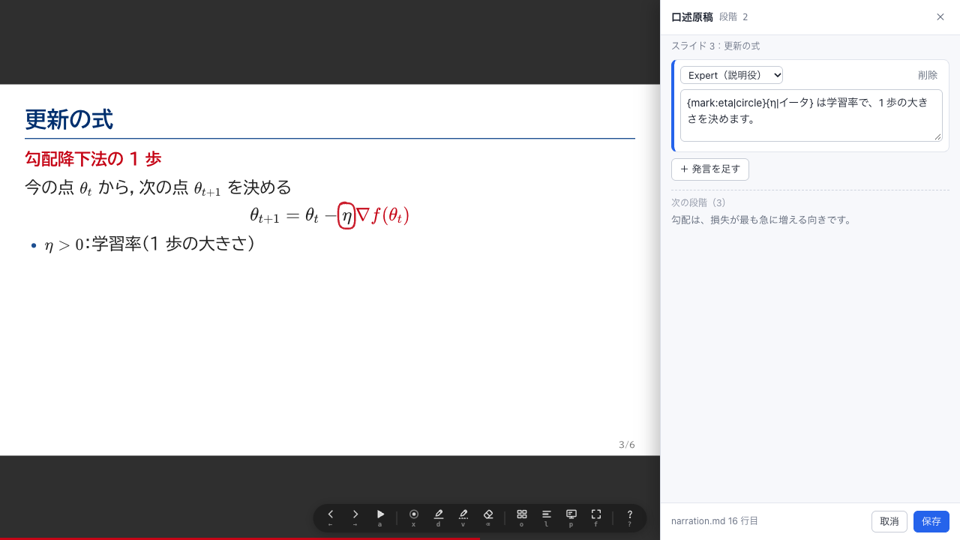
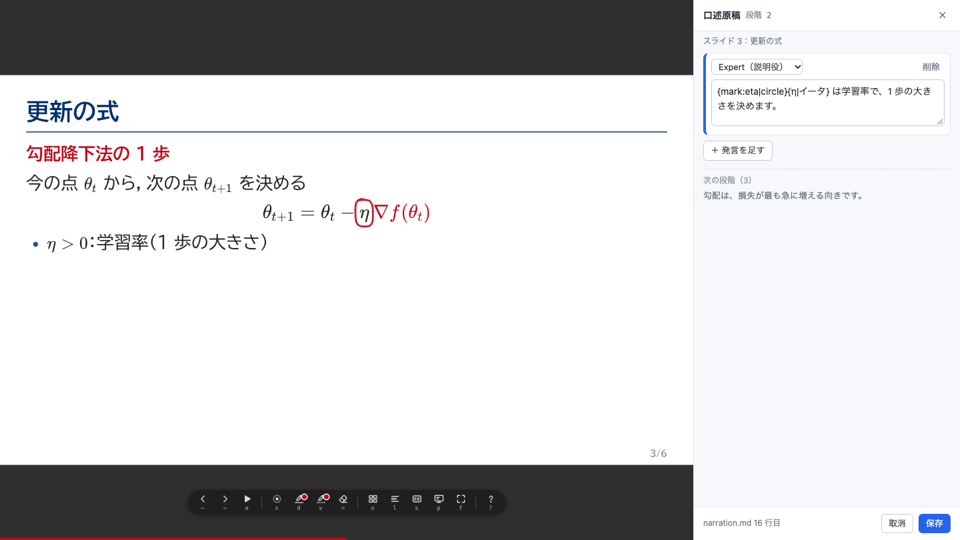
文書：プレビューは知らせを送るだけで、書き込みは信頼する画面（開発サーバーの外枠・編集アプリのページ）の保存でだけ行い、合言葉はデッキに入れないことを dev-server・editor・SECURITY・README に書き、「v0.3 までの弱点」の注を消す。参照の口の一覧、CHANGELOG の Security、口述原稿の引き出しと編集アプリの画面を撮り直す

diff --git a/docs/editor.ja.md b/docs/editor.ja.md
@@ -31,8 +31,10 @@
    | Alt+クリック（Mac は ⌥ option+クリック） | その要素について Claude への指示を残す（`comments.json`） |
    | `c` | 未対応の指示の一覧。クリックでそのスライドへ、「解決」で対応済み |
 
+   原稿の欄・口述原稿の引き出し（右。プレビューはその横に縮む）・コメントの欄と一覧は、デッキではなく編集アプリのページの一部。プレビューはダブルクリックや Alt+クリックの場所を知らせるだけで、原稿を読み・見せ・「保存」（か ⌘/Ctrl+Enter）を押したときに書くのは編集アプリ。キーはプレビューの上でも編集アプリの上でも効く
+
    開発サーバーと同じく、プレビューを組んだ後にファイルが変わっていれば（原稿の hash・口述原稿の版が合わなければ）保存しない。読み込み直してからもう一度
-3. **Claude Code と一緒に。** Claude Code（やほかのエディタ）がフォルダを変える間も開いたままでよい。約 1.5 秒ごとにファイルを見て、変わったら組み直し、同じスライド・段階のままプレビューを読み込み直す。原稿の編集や口述原稿の引き出しで入力中なら、保存か取消まで待つ。組み立てに失敗したら、直るまでプレビューの上にエラーを出す
+3. **Claude Code と一緒に。** Claude Code（やほかのエディタ）がフォルダを変える間も開いたままでよい。約 1.5 秒ごとにファイルを見て、変わったら組み直し、同じスライド・段階のままプレビューを読み込み直す。原稿の欄や口述原稿の引き出しで入力中のものは、プレビューを読み込み直しても残る（編集アプリのページにある）。その間に同じ要素や段階が変わっていれば、保存は断る。組み立てに失敗したら、直るまでプレビューの上にエラーを出す
 4. **発表する・渡す。** 道具の列から
    - **簡易チェック**：`npm run check` の一部をプレビューの中で行う（はみ出し・文字の大きさ・タイトルと結論の字数・口述原稿の抜け・パレットのコントラスト）。結果をクリックでそのスライドへ。目安であって全部の検査ではない：部品の再現性・タイムライン・モーフ・読み上げは見ない。画面の大きさが違うので、数値がコマンドの検査とわずかに違うことがある
    - **HTML を書き出す**：編集の仕掛けを除いて組み、1 つの HTML に保存する（保存先をたずねる）。ダブルクリックでどこでも発表できる
@@ -60,7 +62,7 @@
 - **理由を見せて断る：** 持ち運べる 1 ファイルでないもの・再生専用のもの、ハッシュが合わないもの・一部が欠けたもの、許されないパス（`../` など）、索引の同じ名前の項目、設定のファイルと食い違う文書の識別子、実装していない必須の機能、新しい原稿の書き方の版
 - **新しい major の版：** 編集のためには開かず、知っている版の規則で確かめたうえで原稿を取り出す「フォルダに書き出す…」を申し出る
 - **読むだけ：** 実行系の約束の版が違うもの、部品庫・テーマ庫の部品の hash が編集アプリのものと違う（または編集アプリにない）もの。デッキは表示し、保存は断り、「フォルダに書き出す…」はできる
-- **独自のコード：** 自前のスクリプトや部品を持つファイル（「extended」のもの）は、「このファイルは独自のコードを含んでいます。編集中にファイルを書き換えられるおそれがあります。信頼できるファイルだけを開いてください」と知らせて開く（下の「分かっている弱点」）
+- **独自のコード：** 自前のスクリプトや部品を持つファイル（「extended」のもの）は、その中のものが動く前に知らせてたずね、「プレビューを始める」を押してからプレビューを始める（取消ならファイルは開かない）。開いている間は上に知らせを出す：コードはプレビューの中だけで、外へ繋がらずに動き、ファイルを書き換えられない。部品（`components/…`、どれかの `.js`）や `deck.html` のスクリプトを持つフォルダも、開くたびに 1 回同じことをたずねる（あとからそういうコードが現れたときも）
 
 ## 書き換えるファイル
 
@@ -86,11 +88,11 @@
 ## 仕組みと安全
 
 - **組み立ては 1 つ。** `kit/core/build-core.mjs` が組み立ての本体（注記・取り込み・KaTeX・部品・口述原稿・注目の演出・秒数・テーマ・ファイルの埋め込み・字）で、Node に依存せず、渡された口を通してだけファイルを読む。`kit/build.mjs` は Node のファイル（と fonttools の絞り込み・ffmpeg）を、編集アプリは選んだフォルダと同梱の kit・部品・テーマ・KaTeX・字を渡す。字の絞り込みを切れば、両方が 1 バイトも違わない HTML を出す（`tools/test-app.mjs` が `examples/minimal` と `examples/tmlr2026-calibration` で確かめる）。口述原稿の解析と書き換え（`kit/core/narration-core.mjs`）と新しいデッキの雛形（`kit/templates/new-deck.mjs`）も同じく共有する
-- **編集の画面も 1 つ。** `server/client.js` は「運び手」を通して話す。開発サーバーでは `fetch` と Server-Sent Events、編集アプリでは親の画面への `postMessage`。編集アプリは同じ問い合わせ（`/__dev/source` `/__dev/edit` `/__dev/narration` `/__dev/comment` …）に、開いたフォルダで答える（`app/devapi.js`）
-- **デッキは砂場の中で動く。** プレビューは `allow-same-origin` を付けない `<iframe sandbox="allow-scripts allow-modals">` なので、デッキは origin を持たない。編集アプリの画面・保存領域・フォルダのハンドルに届かず、送れるのはメッセージだけで、編集アプリは送り元の窓と形を確かめ、開いたフォルダについてだけ答える。`allow-modals` は `confirm`（口述原稿の変更を捨てるか）と印刷のため。ページの Content-Security-Policy（デッキも受け継ぐ）はアプリ自身の読み込みだけを許す（部品が `new Function` で式を作る（`m-sweep f="…"` など）ので `'unsafe-eval'` は許す）。発表者ビューは編集アプリが開く窓で、その中のデッキもまた砂場の iframe。やり取りは編集アプリが中継する
+- **編集の画面も 1 つで、デッキの外にある。** `server/editor-ui.js`（原稿の欄・口述原稿の引き出し・コメントの欄と一覧）は、ここでは編集アプリのページで、開発サーバーでは外枠のページで動く。どちらも同じ問い合わせ（`/__dev/source` `/__dev/edit` `/__dev/narration` `/__dev/comment` …）を送り、開発サーバーは HTTP で、編集アプリはページの中で開いたフォルダについて答える（`app/devapi.js`）。デッキの中にあるのは知らせを送る `server/hints.js` だけ（下）
+- **デッキは砂場の中で動き、書き込めない。** プレビューは `allow-same-origin` を付けない `<iframe sandbox="allow-scripts allow-modals">` なので、デッキは origin を持たない。編集アプリの画面・保存領域・フォルダのハンドルに届かない。`allow-modals` は印刷のため。ページの Content-Security-Policy（アプリ自身の読み込みだけを許す）に重ねて、プレビューの文書には、どのスクリプトよりも前に別の決まりを入れる：`connect-src 'none'`、画像・字・スタイル・音声は `data:` / `blob:` だけ（組み立てが埋め込む）、Worker・フォーム・`<base>` は使えない（部品が `new Function` で式を作る（`m-sweep f="…"` など）ので `'unsafe-eval'` は残す）。発表者ビューは編集アプリが開く窓で、その中のデッキもまた同じ決まりの砂場の iframe。やり取りは編集アプリが中継する
+- **頼みではなく知らせ。** プレビューには書き込みを頼む口がない。送れるのは知らせだけ：「この `data-src` の範囲と hash の要素を直したい」（編集モードでダブルクリック）、「この要素にコメントしたい」（Alt+クリック。スライドと段階の鍵と、要素の短い引用）、鍵の `e`・`n`・`c`・Esc、今の位置（`deck-pos`）。知らせは書き込む本文を持たない。編集アプリは送り元の窓と知らせの形を確かめ、編集モードでないときの edit の知らせは無視し、今の原稿を自分で読み、範囲が今の組み立ての直せる要素で hash が合うことを確かめて、自分の欄を見せる。書くのは、その欄や引き出しで「保存」か ⌘/Ctrl+Enter を押したときだけ。権利の確認と読むだけのファイルは、これまでどおりこの書き込みにかかる。編集アプリからプレビューに送るのは、見せるのに要るものだけ（編集モードの入り切り・印を付ける要素・「その段階へ」・印刷・簡易チェック）
 - **触るのは選んだフォルダかファイルだけ**で、ブラウザの許可を得てから
 - **持ち運べる 1 ファイルを開いても、その中のものは何も動かない。** ファイルはバイト列として読み、スクリプトを無効にして Web Worker（編集アプリに同梱。ページの決まりは `blob:` の Worker だけを許す）の中で解析する。そのファイルへ移動したり、ページに入れたりはしない。動くのは原稿から組み直したデッキだけで、フォルダのときと同じ砂場のプレビューの中
-- **分かっている弱点（v0.3 まで）：デッキ自身のコードがデッキを書き換えられる。** 編集の画面は砂場の中のデッキの側で動き、編集アプリは「プレビューから来た」ことしか確かめていない。なので、デッキの中のスクリプトや部品も同じ依頼を送って、開いたフォルダやファイルの `deck.html`・`narration.md`・`comments.json` を書き換えられる（ほかのファイルには届かない。控えは `.cache/edits/` に残る）。それでも権利の確認は編集アプリの側で先に出し、読むだけのファイルはどの書き込みも断る。信頼できるデッキだけを開くこと（独自のコードを持つ持ち運べる 1 ファイルには知らせを出す）。v0.3 で編集の画面を編集アプリの側に移し、プレビューからは「どこを直すか」を指すことしかできないようにする
 
 ## GitHub Pages で配る
 
@@ -102,8 +104,8 @@
 
 ## 確かめ方
 
-`node tools/test-app.mjs [作業用のフォルダ] [--shots 画像のフォルダ]`（`npm test` に入っている）は、作業用のフォルダに編集アプリを組んで 127.0.0.1 で配り、ブラウザの OPFS（origin-private file system）にデッキのフォルダを作って `window.__APP_TEST_OPEN(handle)` で開く。同じ HTML になること・原稿の編集・口述原稿の引き出し・指示・外での変更・組み立ての失敗・簡易チェック・書き出し・発表者ビュー・英語の画面・`file://` の 1 ファイル版と、コンソールのエラーが無いことを確かめる。持ち運べる 1 ファイルは、`examples/minimal`（dry-run の音声つき）と `tools/portable-fixtures.mjs` の試験用の文書から作り、開く・権利の確認（改変を認めないライセンスの確認も）・文字と口述原稿の編集・OPFS のファイルのハンドルへの保存・開き直し（同じ `docId`、変えていない音声の hash が同じ、展開したフォルダがメモリの上のものと同じ）・「フォルダに書き出す…」と「1 ファイルを書き出す」（同じバイト）・独自のコードの知らせ・印のスクリプトが編集アプリのページでも読み取りの Worker でも動かないこと・断るファイル（パスの抜け出し・新しい major の版・索引の重複・知らない必須の機能）・読むだけのファイル・ダウンロードでの保存を確かめる。`node tools/test-workspace.mjs` は、メモリの上のフォルダと権利の規則をブラウザなしで確かめる。
+`node tools/test-app.mjs [作業用のフォルダ] [--shots 画像のフォルダ]`（`npm test` に入っている）は、作業用のフォルダに編集アプリを組んで 127.0.0.1 で配り、ブラウザの OPFS（origin-private file system）にデッキのフォルダを作って `window.__APP_TEST_OPEN(handle)` で開く。同じ HTML になること・原稿の編集（その間にファイルが変わったときの 409 も）・口述原稿の引き出し（発言を足す・CRLF のまま・409）・指示・外での変更・組み立ての失敗・簡易チェック・書き出し・発表者ビュー・英語の画面・`file://` の 1 ファイル版と、コンソールのエラーが無いことを確かめる。書き込みを試みるデッキのフォルダ（`tools/hostile-deck.mjs`：古い書き込みの知らせと偽の本文の知らせを送り、合言葉を探し、編集アプリのページに触り、書き込みの口に `fetch`・XHR・beacon する部品とインラインのスクリプト）は、動く前にたずね、フォルダの中を何も変えず、編集アプリで「保存」を押したときだけ書かれることを確かめる。持ち運べる 1 ファイルは、`examples/minimal`（dry-run の音声つき）と `tools/portable-fixtures.mjs` の試験用の文書から作り、開く・権利の確認（改変を認めないライセンスの確認も）・文字と口述原稿の編集・OPFS のファイルのハンドルへの保存・開き直し（同じ `docId`、変えていない音声の hash が同じ、展開したフォルダがメモリの上のものと同じ）・「フォルダに書き出す…」と「1 ファイルを書き出す」（同じバイト）・独自のコードの知らせ・印のスクリプトが編集アプリのページでも読み取りの Worker でも動かないこと・断るファイル（パスの抜け出し・新しい major の版・索引の重複・知らない必須の機能）・読むだけのファイル・ダウンロードでの保存を確かめる。`node tools/test-workspace.mjs` は、メモリの上のフォルダと権利の規則をブラウザなしで確かめる。
 
 ## 画面の言葉
 
-ふだんはブラウザの言語（日本語か英語）に合わせる。右上の **English / 日本語** のボタンで切り替えるか、`…/editor/?lang=en`・`?lang=ja` で開く。選んだ言葉は覚えておき、デッキを開いたまま切り替えても同じフォルダを開き直す（開いた持ち運べる 1 ファイルは閉じる。保存していない変更があれば先にたずねる）。スライドの中の編集の道具（編集モード・口述原稿の引き出し）は、デッキの言語（`<html lang>`）に合わせる。
+ふだんはブラウザの言語（日本語か英語）に合わせる。右上の **English / 日本語** のボタンで切り替えるか、`…/editor/?lang=en`・`?lang=ja` で開く。選んだ言葉は覚えておき、デッキを開いたまま切り替えても同じフォルダを開き直す（開いた持ち運べる 1 ファイルは閉じる。保存していない変更があれば先にたずねる）。編集の道具（編集モード・原稿の欄・口述原稿の引き出し・コメント）は編集アプリの言葉に合わせる（開発サーバーではデッキの言語 `<html lang>` に合わせる）。

diff --git a/docs/editor.md b/docs/editor.md
@@ -31,8 +31,10 @@ A web page that opens a deck folder directly and does what the [dev server](dev-
    | Alt+click (Mac: ⌥ Option+click) | leave a comment for Claude about that element (`comments.json`) |
    | `c` | list of open comments; click one to go to its slide, “Resolve” to mark it done |
 
+   The source card, the narration drawer (on the right; the preview shrinks beside it), the comment box and the comment list are part of the editor page, not of the deck: the preview only points at what you double-clicked or Alt+clicked, and the editor reads the source, shows it and writes it when you press Save (or ⌘/Ctrl+Enter). The keys work with the focus on the preview or on the editor.
+
    As with the dev server, a save is refused if the file changed since the preview was built (the source hash or the narration revision does not match); reload and try again.
-3. **Work with Claude Code.** Keep the editor open while Claude Code (or any editor) changes the folder. The editor looks at the files about every 1.5 s; when one changes it rebuilds and reloads the preview on the same slide and step. If you are typing in an editor card or the narration drawer, the reload waits until you save or cancel. If the build fails, the error is shown over the preview until the file is fixed.
+3. **Work with Claude Code.** Keep the editor open while Claude Code (or any editor) changes the folder. The editor looks at the files about every 1.5 s; when one changes it rebuilds and reloads the preview on the same slide and step. What you are typing in an editor card or the narration drawer stays while the preview reloads (it is in the editor page); if the same element or step changed meanwhile, the save is refused. If the build fails, the error is shown over the preview until the file is fixed.
 4. **Present and share.** Use the toolbar:
    - **Quick check:** a subset of `npm run check` that runs in the preview (overflow, font size, title / conclusion length, missing narration, palette contrast). Click a result to go to the slide. It is a hint, not the full check: there are no component determinism, timeline, morph or accessibility checks, and the numbers can differ slightly from the command-line check because the window differs.
    - **Export HTML:** builds the deck without the editing hooks and saves it as one HTML file (asks where to save). Double-click the file to present it anywhere.
@@ -60,7 +62,7 @@ Before the first edit of an opened file (the first save from edit mode or the na
 - **Refused, with the reason:** a file that is not a portable file or is play-only, a broken hash or a missing part, a path that is not allowed (e.g. `../`), a duplicate member in the index, a document id that disagrees with the settings file, a feature it does not implement (listed as required), and a newer source contract.
 - **Newer major version:** not opened for editing; the dialog offers **Export folder…** to extract the source (checked with the rules of the version the editor knows).
 - **Read-only:** a different runtime contract, or registry components or themes whose hash differs from the editor's (or that the editor does not have). The deck is shown, Save is refused, and Export folder… works.
-- **Its own code:** a file with scripts or components of its own (the “extended” profile) opens with the notice “This file contains its own code; it can modify the file while you edit. Open only files you trust.” (see the known limitation below).
+- **Its own code:** before anything from a file with scripts or components of its own (the “extended” profile) runs, the editor says so and asks; the preview starts only after **Start the preview** (Cancel leaves the file closed). While it is open, a notice stays at the top: the code runs only inside the preview, without network access, and cannot change the file. The same question comes for a folder with components (`components/…`, any `.js` file) or scripts in `deck.html`, once per opened folder (also when such code appears later).
 
 ## Files it writes
 
@@ -86,11 +88,11 @@ Exactly the same as the dev server ([dev-server.md#files-it-rewrites](dev-server
 ## How it works and security
 
 - **One build for both.** `kit/core/build-core.mjs` is the build (annotation, includes, KaTeX, components, narration, marks, timing, themes, assets, fonts) with no Node dependency; it reads files only through an interface it is given. `kit/build.mjs` passes Node's file system (plus fonttools subsetting and ffmpeg); the editor passes the chosen folder and the bundled kit, components, themes, KaTeX and fonts. With font subsetting off, both produce byte-identical HTML (`tools/test-app.mjs` checks this for `examples/minimal` and `examples/tmlr2026-calibration`). The narration parser and the narration rewriting (`kit/core/narration-core.mjs`) and the new-deck template (`kit/templates/new-deck.mjs`) are shared the same way.
-- **One editing UI for both.** `server/client.js` talks to a transport: `fetch` and Server-Sent Events with the dev server, `postMessage` to the editor in the app. The editor answers the same requests (`/__dev/source`, `/__dev/edit`, `/__dev/narration`, `/__dev/comment`, …) against the folder (`app/devapi.js`).
-- **The deck runs in a sandbox.** The preview is an `<iframe sandbox="allow-scripts allow-modals">` without `allow-same-origin`, so the deck has an opaque origin: it cannot reach the editor page, its storage or the folder handles, and it can only send messages, which the editor checks (source window, request shape) and answers only for the open folder. `allow-modals` is there for `confirm` (discarding narration changes) and printing. The page's Content-Security-Policy (inherited by the deck) allows loading only the editor itself (`'unsafe-eval'` is allowed because components build formulas with `new Function`, e.g. `m-sweep f="…"`). The presenter view is a window the editor opens, with the deck again in a sandboxed iframe; the editor relays its messages.
+- **One editing UI for both, outside the deck.** `server/editor-ui.js` (the source card, the narration drawer, the comment box and list) runs in the editor page here and in the dev server's frame page. It sends the same requests (`/__dev/source`, `/__dev/edit`, `/__dev/narration`, `/__dev/comment`, …): the dev server answers them over HTTP, the editor answers them in the page against the folder (`app/devapi.js`). Inside the deck there is only `server/hints.js`, which sends hints (see below).
+- **The deck runs in a sandbox and cannot write.** The preview is an `<iframe sandbox="allow-scripts allow-modals">` without `allow-same-origin`, so the deck has an opaque origin: it cannot reach the editor page, its storage or the folder handles. `allow-modals` is there for printing. On top of the page's Content-Security-Policy (which allows loading only the editor itself), the preview document gets its own policy before any of its scripts: `connect-src 'none'`, images, fonts, styles and media only from `data:` / `blob:` (the build embeds them), no workers, forms or `<base>` (`'unsafe-eval'` stays because components build formulas with `new Function`, e.g. `m-sweep f="…"`). The presenter view is a window the editor opens, with the deck again in a sandboxed iframe under the same policy; the editor relays its messages.
+- **Hints, not requests.** The preview has no way to ask for a write. It sends only hints: “edit the element with this `data-src` range and hash” (double-click in edit mode), “a note at this element” (Alt+click; the slide and step key and a short quote of the element), the keys `e` / `n` / `c` / Esc, and its position (`deck-pos`). A hint carries no text to write. The editor checks the source window and the shape of each hint, ignores an edit hint outside edit mode, reads the current source itself, checks that the range is an editable element of the current build and that the hash matches, and shows its own card; it writes only when you press Save or ⌘/Ctrl+Enter in that card or drawer. The rights prompt and read-only mode apply to these writes as before. The editor sends the preview only what it needs to show: edit mode on/off, the element to highlight, “go to this step”, print and quick check.
 - **The editor touches only the folder or file you chose**, and only after the browser's permission prompt.
 - **Opening a portable file runs nothing from it.** The file is read as bytes and parsed in a Web Worker (bundled into the editor; the page's policy allows workers only from `blob:`) with scripting disabled; the editor never navigates to it or inserts it into a page. Only the deck rebuilt from its source runs, in the same sandboxed preview as a folder.
-- **Known limitation (until v0.3): the deck's own code can edit the deck.** The editing UI runs inside the sandboxed deck, and the editor checks only that a request comes from the preview. So a script or component in the deck can send edit requests and rewrite `deck.html`, `narration.md` and `comments.json` of the open folder or file (nothing else; backups stay in `.cache/edits/`). The rights prompt still comes first, from the editor itself, and a read-only file refuses every write. Open only decks you trust; portable files with their own code show a notice. In v0.3 the editing UI moves into the editor itself and the preview can only point at what to edit.
 
 ## Publishing on GitHub Pages
 
@@ -102,8 +104,8 @@ Exactly the same as the dev server ([dev-server.md#files-it-rewrites](dev-server
 
 ## Tests
 
-`node tools/test-app.mjs [work folder] [--shots folder]` (part of `npm test`) builds the editor into the work folder, serves it on 127.0.0.1, creates deck folders in the browser's origin-private file system (OPFS) and opens them through `window.__APP_TEST_OPEN(handle)`. It checks the byte-identical builds, editing, the narration drawer, comments, outside changes, build errors, quick check, export, presenter view, the English UI and the single file from `file://`, and that there are no console errors. For portable files it builds one from `examples/minimal` (with dry-run audio) and the document fixtures of `tools/portable-fixtures.mjs`, and checks opening, the rights prompt (and the confirmation for a no-derivatives license), editing text and narration, saving to a file handle in OPFS, reopening (same `docId`, unchanged audio hashes, the unpacked folder equals the in-memory one), Export folder and Export portable file (byte-identical), the notice for files with their own code, that the canary script never runs in the editor page or the reader worker, the refusals (path traversal, future major version, duplicate member, unknown required feature), read-only files, and the download fallback. `node tools/test-workspace.mjs` tests the in-memory folder and the rights rules without a browser.
+`node tools/test-app.mjs [work folder] [--shots folder]` (part of `npm test`) builds the editor into the work folder, serves it on 127.0.0.1, creates deck folders in the browser's origin-private file system (OPFS) and opens them through `window.__APP_TEST_OPEN(handle)`. It checks the byte-identical builds, editing (including a 409 when the file changed meanwhile), the narration drawer (adding a turn, CRLF kept, 409), comments, outside changes, build errors, quick check, export, presenter view, the English UI and the single file from `file://`, and that there are no console errors. A folder with a deck that tries to write (`tools/hostile-deck.mjs`: a component and an inline script that send the old write messages and hints with forged text, look for a token, reach for the editor page and `fetch` / XHR / beacon the write endpoints) must ask before it runs, change nothing in the folder, and be written only when Save is pressed in the editor. For portable files it builds one from `examples/minimal` (with dry-run audio) and the document fixtures of `tools/portable-fixtures.mjs`, and checks opening, the rights prompt (and the confirmation for a no-derivatives license), editing text and narration, saving to a file handle in OPFS, reopening (same `docId`, unchanged audio hashes, the unpacked folder equals the in-memory one), Export folder and Export portable file (byte-identical), the notice for files with their own code, that the canary script never runs in the editor page or the reader worker, the refusals (path traversal, future major version, duplicate member, unknown required feature), read-only files, and the download fallback. `node tools/test-workspace.mjs` tests the in-memory folder and the rights rules without a browser.
 
 ## Language
 
-The editor follows your browser language (Japanese or English). Switch with the **English / 日本語** button at the top right, or open `…/editor/?lang=en` or `?lang=ja`. The choice is remembered; switching while a deck is open reopens the same folder (an opened portable file is closed; unsaved changes are asked about first). The editing tools inside the slide (edit mode, narration drawer) follow the deck's own language (`<html lang>`).
+The editor follows your browser language (Japanese or English). Switch with the **English / 日本語** button at the top right, or open `…/editor/?lang=en` or `?lang=ja`. The choice is remembered; switching while a deck is open reopens the same folder (an opened portable file is closed; unsaved changes are asked about first). The editing tools (edit mode, the source card, the narration drawer, comments) follow the editor's language. (In the dev server they follow the deck's language, `<html lang>`.)

diff --git a/docs/dev-server.ja.md b/docs/dev-server.ja.md
@@ -19,16 +19,20 @@ npm run dev -- path/to/deck.html --port 5174 --theme tml
 組み立てに失敗したときは、失敗の内容を画面に出す。直して保存すれば戻る。
 `?presenter=1`、`?mode=lecture` などはそのまま使える。音声は `/deck/audio/…` から読む。
 
+`/` のページはデッキを囲む外枠で、デッキそのものは sandbox の iframe（`/deck/`）の中で動く。編集の道具（原稿の欄・口述原稿の引き出し・コメントの欄と一覧）はデッキではなく外枠のページにある。デッキは「どこを直したいか」を知らせるだけで、原稿を読み・見せ・保存を押したときに書くのは外枠のページ（[守り](#守り)）。
+
 ## 操作
 
 | 鍵 | すること |
 |---|---|
-| `e` | 編集モードの入り切り。直せる要素に枠が出る。**ダブルクリック**で原稿（HTML と `\( \)` の式）を開き、⌘/Ctrl+Enter で保存、Esc で取消 |
-| `n` | 口述原稿の引き出し（右）。今の段階の発言を直す（話者 Expert / Novice、発言の追加・削除・順番）。`{cue}` `{φ\|ファイ}` はそのまま書く。下に次の段階を表示 |
+| `e` | 編集モードの入り切り。直せる要素に枠が出る。**ダブルクリック**で原稿（HTML と `\( \)` の式）を要素の横の欄に開き、⌘/Ctrl+Enter か「保存」で保存、Esc で取消 |
+| `n` | 口述原稿の引き出し（右。スライドはその横に縮む）。今の段階の発言を直す（話者 Expert / Novice、発言の追加・削除・順番）。`{cue}` `{φ\|ファイ}` はそのまま書く。下に次の段階を表示 |
 | `c` | Claude への指示の一覧（未対応のもの）。クリックでそのスライドへ、「解決」で対応済み |
 | Alt+クリック（Mac は ⌥ option キーを押したままクリック） | その要素について Claude への指示を残す |
 
-矢印・Space・p・a・l などの発表の操作は、入力欄の外ではいつもどおり効く。
+鍵はスライドの上でも外枠の上でも効く。開いた欄や引き出しにフォーカスが移り、閉じるとスライドに戻る。
+矢印・Space・p・a・l などの発表の操作は、入力欄の外ではいつもどおり効く。`p` の発表者ビューは別の窓に開く（そこでもデッキは sandbox の中）。
+デッキが読み込み直されても（保存のあと・外での変更のあと）入力は残るので、そのまま書き続けられる。その間に同じ要素や段階が変わっていれば、保存は断る。
 保存した時点で原稿が別の所で変わっていたら（ハッシュが合わない）、保存せずに「原稿が変わっています。再読み込みしてください」と出す。
 口述原稿も同じで、引き出しを開いたあとにその段階の行が別の所で変わっていたら、保存せずに「口述原稿が変わっています」と出す（入力は残る）。
 
@@ -42,17 +46,27 @@ npm run dev -- path/to/deck.html --port 5174 --theme tml
 
 ## 守り
 
-ほかのサイトを開いたブラウザから原稿を書き換えられないように、次を断る。
+**デッキは書き込めない。** デッキの中のスクリプトや部品は動くが、sandbox の iframe の中だけで動く。
+
+- デッキの文書（`/deck/`）は `<iframe sandbox="allow-scripts allow-modals">`（`allow-same-origin` なし）の中で開くので、origin を持たない。外枠のページ・その保存領域・合言葉を読めず、出せる要求はどれも `Origin: null` になる。
+- デッキの文書には別の Content-Security-Policy を付ける：`connect-src 'none'`（`fetch`・XHR・beacon・イベントの流れを使えない）、画像・字・スタイルは `data:` / `blob:` だけ（組み立てが埋め込む）、音声は `/deck/audio/` だけ、iframe は `/deck/` だけ（発表者ビューの中の画面）、フォームと `<base>` は使えない。
+- デッキが外枠に送るのは**知らせ**だけ：「この `data-src` の範囲と hash の要素を直したい」「この要素にコメントしたい」、鍵の `e`・`n`・`c`・Esc、今の位置。知らせは書き込む本文を持たない。外枠は知らせの形を確かめ、今の原稿を自分で読み、範囲と hash を確かめて、自分の欄や引き出しを見せる。書くのは、その欄や引き出しで「保存」（か ⌘/Ctrl+Enter）を押したときだけ。偽の本文を付けた知らせは無視する。知らせにできるのは、本当の原稿を見せる欄を開くことまで。
+- 合言葉は外枠のページにだけあり、デッキの文書には入れない。
+
+ほかのサイトを開いたブラウザから原稿を書き換えられないように、次も断る。
 
 - Host が `127.0.0.1:番号` か `localhost:番号` でない要求（DNS rebinding 対策）は 403
-- `/__dev/` の口（書き込み・原稿の読み出し・コメント・`/__dev/events`）は、起動のたびに作る合言葉が要る。
-  配る画面に `window.__DECK_DEV_TOKEN` として埋め込み、client.js が `X-Deck-Token` で送る（`/__dev/events` は `?token=`）。
+- `/__dev/` の口（書き込み・原稿の読み出し・コメント・`/__dev/info`・`/__dev/events`）は、起動のたびに作る合言葉が要る。
+  合言葉は外枠のページ（`/`）にだけ埋め込み、外枠が `X-Deck-Token` で送る（`/__dev/events` は `?token=`）。
   合言葉が違えば 403（サーバーを起動し直したら画面を読み込み直す）
+- `Origin: null`（sandbox のデッキが出す要求）や、`Sec-Fetch-Site` が `same-origin` でない要求は、合言葉が合っていても 403
 - 書き込み（POST）は `Content-Type: application/json` でなければ 415、Origin が付いていて同じ番号の 127.0.0.1・localhost でなければ 403
+- 文言の編集は、今の組み立てが直せると印を付けた要素（`data-src`）で、原稿の hash が変わっていないものだけ。口述原稿の編集は、デッキにあるスライドで、その段階の今の版だけ。そうでなければ 409（か 400）
+- 外枠のページはほかのページの iframe に入れられない（`frame-ancestors 'none'`）
 - `/deck/…` はドットで始まる名前（`.cache/edits/` の写し、`.env` など）を出さない。symlink で原稿のフォルダの外を指すものも 403
 - 壊れた URL（`/%ZZ` など）は 400
 
-これはほかのサイトへの守りで、デッキ自身への守りではない。合言葉は配る画面のどのスクリプトからも見えるので、デッキの中のスクリプトや部品も、編集の画面と同じ依頼を送って `deck.html`・`narration.md`・`comments.json` を書き換えられる。信頼できるデッキだけを開くこと。v0.3 で編集の画面をデッキの画面の外に移す。
+`tools/test-dev-server.mjs` は、書き込みを試みるデッキ（`tools/hostile-deck.mjs`：古い書き込みの知らせを偽の本文で送り、合言葉を読み、外枠のページに触り、書き込みの口に合言葉なし・当て推量の合言葉で `fetch`・XHR・beacon する部品とインラインのスクリプト）で、外枠で「保存」を押すまでフォルダの中が何も変わらないことを確かめる。
 
 ## Claude Code への頼み方
 

diff --git a/CHANGELOG.md b/CHANGELOG.md
@@ -6,6 +6,14 @@ The format is based on [Keep a Changelog](https://keepachangelog.com/en/1.1.0/),
 
 ## [Unreleased]
 
+### Security
+
+- **The preview can no longer write.** In the dev server and in the editor app, the editing UI (source card, narration drawer, comment box and list; `server/editor-ui.js`) moved out of the deck into a trusted page: the dev server's new frame page at `/` (the deck is now an iframe at `/deck/`) and the editor app's own page. The deck runs in a sandboxed iframe with an opaque origin and only sends hints (`server/hints.js`: the element or step to open, a note position, the keys `e` / `n` / `c` / Esc, its position), which carry no text to write. The trusted UI reads the source itself, checks the range against the current build and the hash, and writes only when Save (or ⌘/Ctrl+Enter) is pressed in it. The editor app no longer answers write requests from the preview at all (`app-api` is gone), and `server/client.js` is replaced by `server/hints.js` and `server/editor-ui.js`
+- Dev server: the per-run token is embedded only in the frame page, never in the deck document; `/__dev/` refuses `Origin: null` and cross-site `Sec-Fetch-Site` even with the token; text edits must name an element marked editable by the current build, narration edits a slide of the deck; the frame page cannot be framed (`frame-ancestors 'none'`)
+- No network from the preview: the deck document gets a Content-Security-Policy with `connect-src 'none'`, every other resource from `data:` / `blob:` only (the dev server also allows its own `/deck/audio/` and `/deck/`), no workers, forms or `<base>` — in the dev server as a response header, in the editor app as the first element of the preview document
+- Editor app: before running a deck's own code — a portable file with the “extended” profile, or a folder with components (`.js` files) or scripts in `deck.html` — the editor says so and starts the preview only after “Start the preview” (Cancel opens nothing)
+- `tools/hostile-deck.mjs`: a deck whose component and inline script try to write (old write messages and hints with forged text, reading the token, reaching the parent document, `fetch` / XHR / beacon to the write endpoints with and without a guessed token); `tools/test-dev-server.mjs` and `tools/test-app.mjs` check that nothing in the folder changes and that only Save in the trusted UI writes
+
 ### Added
 
 - Stable slide ids ([format spec](https://github.com/egatari/egatari-spec) §8.1): `<section class="slide" id="s-k3f9q2">` keys the slide, and `narration.md` addresses it as `## Heading {#s-k3f9q2}` (also `## s-k3f9q2`; plain `## Heading` stays for slides without id). The id wins over the heading text, so renaming a heading no longer breaks narration, audio or timing. Decks may mix slides with and without ids
@@ -20,8 +28,8 @@ The format is based on [Keep a Changelog](https://keepachangelog.com/en/1.1.0/),
 - The runtime plays audio stored inside the file (`<scheme>:<blobId>` references) as well as `data:` URIs, and ignores cue times of audio marked `sync: none`
 - Checker: `slide key: legacy` warning for slides keyed by a hand-written `data-key` or by position (`s<n>`)
 - Editor app: **open a portable file without a folder.** “Open file…” (first screen and toolbar) or drag and drop reads the file as bytes and extracts it in a Web Worker with the same reader as `npm run portable -- unpack` (scripting disabled; the file is never loaded as a page), then edits it in memory with the usual preview, editing tools and quick check. “Save” overwrites the same file through its file handle (else asks where to save, or downloads), “Save as…” writes another file, and “Export folder…” writes the source and audio to an empty folder (a non-empty one is refused). Saving rebuilds the file with the editor's bundled kit and keeps the lesson id, the rights notices, unknown index members, extension data and the audio bytes. Steps whose narration changed are listed as stale (their audio is kept)
-- Editor app: **rights prompt** before the first edit of an opened file: title, creators, copyright, license and attribution (shown as claims); a no-derivatives license (Creative Commons `-ND`, “All rights reserved”) or a copyright notice without a license needs an explicit confirmation ([format spec](https://github.com/egatari/egatari-spec) §7.3). The prompt also guards writes requested by the preview
-- Editor app: a notice for files that bring their own code (scripts or deck-local components); read-only mode for files whose runtime contract or registry component/theme hashes differ from the editor's; refusal with the reason for broken or unsafe files and for unknown required features; for a newer major version, only “Export folder…” (source extraction)
+- Editor app: **rights prompt** before the first edit of an opened file: title, creators, copyright, license and attribution (shown as claims); a no-derivatives license (Creative Commons `-ND`, “All rights reserved”) or a copyright notice without a license needs an explicit confirmation ([format spec](https://github.com/egatari/egatari-spec) §7.3). The prompt also guards every write
+- Editor app: a notice for files that bring their own code (scripts or deck-local components; see Security); read-only mode for files whose runtime contract or registry component/theme hashes differ from the editor's; refusal with the reason for broken or unsafe files and for unknown required features; for a newer major version, only “Export folder…” (source extraction)
 - Editor app: “Export portable file” for an open folder (writes the lesson id into the folder's settings file the first time)
 - Editor app: a workspace interface (`list`, `readBytes`, `readText`, `writeText`, `writeBytes`, `exists`, `backup`) with two implementations, the chosen folder and an in-memory folder (`app/workspace.js`, `app/memfs.js`); `tools/test-workspace.mjs` (in `npm test`) tests the in-memory folder, the rights rules and the portable-file workspace without a browser
 - Portable file: audio entries in the runtime carry the audio media type (`mime`), and the runtime uses it instead of sniffing the bytes; the reader's “extract only” mode reads a newer major version with the 1.x rules (source extraction, no editing)
@@ -29,6 +37,8 @@ The format is based on [Keep a Changelog](https://keepachangelog.com/en/1.1.0/),
 
 ### Changed
 
+- Dev server: `/` is a frame page around the deck (the deck document is at `/deck/`); `?presenter=1` on `/` opens a presenter window whose deck is sandboxed too, and the frame page relays its messages. The narration drawer sits beside the slide instead of over it, and typed input survives reloads (the save is refused if that part changed meanwhile)
+- Editor app: the editing tools follow the editor's language (they followed the deck's language)
 - `vendor/egatari-spec/` follows the spec at `aea3c43` (theme entries with an optional path, optional audio media type, `null` input hash, C1 control characters in paths)
 - Portable file: audio made from older narration is recorded with an input hash of `null` (unknown, treated as stale) instead of a made-up hash; unpacking and packing keep it. The readable layer without script is a `<section>`
 - Reading a portable file refuses `audio/manifest.json` inside the archive and a settings file whose `docId` differs from the index, and treats a source hash recomputed from the files that differs from the index like a mismatch with the runtime metadata

diff --git a/docs/dev-server.md b/docs/dev-server.md
@@ -19,16 +19,20 @@ and the repository's kit/, components/ and themes/. When something changes it re
 When the build fails, the error is shown on the page. Fix it and save, and the deck comes back.
 `?presenter=1`, `?mode=lecture` and the like work as usual. Audio is read from `/deck/audio/…`.
 
+The page at `/` is a frame around the deck: the deck itself runs in a sandboxed iframe (`/deck/`), and the editing tools (the source card, the narration drawer, the comment box and the list) belong to the frame page, not to the deck. The deck only points at what you want to edit; the frame page reads the source, shows it and writes it when you press Save (see [Protection](#protection)).
+
 ## Controls
 
 | Key | Action |
 |---|---|
-| `e` | Toggle edit mode. Editable elements get an outline. **Double-click** to open the source (HTML, with math as `\( \)`), ⌘/Ctrl+Enter to save, Esc to cancel |
-| `n` | Narration drawer (right). Edit the turns of the current step (speaker Expert / Novice; add, delete and reorder turns). Write `{cue}` and `{φ\|ファイ}` as they are. The next step is shown below |
+| `e` | Toggle edit mode. Editable elements get an outline. **Double-click** to open the source (HTML, with math as `\( \)`) in a card next to the element, ⌘/Ctrl+Enter or Save to save, Esc to cancel |
+| `n` | Narration drawer (right; the slide shrinks beside it). Edit the turns of the current step (speaker Expert / Novice; add, delete and reorder turns). Write `{cue}` and `{φ\|ファイ}` as they are. The next step is shown below |
 | `c` | List of instructions for Claude (open ones). Click one to go to its slide; 「解決」 ("Resolve") marks it as done |
 | Alt+click (on a Mac, hold the ⌥ Option key and click) | Leave an instruction for Claude about that element |
 
-The presenting keys (arrows, Space, p, a, l, …) work as usual outside input fields.
+The keys work whether the focus is on the slide or on the frame page; the card or drawer that opens takes the focus, and closing it gives the focus back to the slide.
+The presenting keys (arrows, Space, p, a, l, …) work as usual outside input fields. `p` opens the presenter view in a window of its own (the deck runs sandboxed there too).
+Your input stays when the deck reloads (after a save or an outside change), so you can keep typing; if the same element or step changed in the meantime, the save is refused.
 If the source has changed elsewhere by the time you save (the hash does not match), it does not save and shows 「原稿が変わっています。再読み込みしてください」 ("The source has changed. Please reload.")
 The same goes for the narration: if the lines of that step have changed elsewhere since the drawer was opened, it does not save and shows 「口述原稿が変わっています」 ("The narration has changed"; your input is kept).
 
@@ -42,17 +46,27 @@ The same goes for the narration: if the lines of that step have changed elsewher
 
 ## Protection
 
-So that a browser that has another site open cannot rewrite your source, the following are refused.
+**The deck cannot write.** Scripts and components in the deck run, but only inside the sandboxed iframe:
+
+- The deck document (`/deck/`) is served in an `<iframe sandbox="allow-scripts allow-modals">` without `allow-same-origin`, so it has an opaque origin. It cannot read the frame page, its storage or the token, and every request it could send carries `Origin: null`.
+- The deck document has its own Content-Security-Policy: `connect-src 'none'` (no `fetch`, XHR, beacons or event streams), images, fonts and styles only from `data:` / `blob:` (the build embeds them), audio only from `/deck/audio/`, frames only from `/deck/` (the presenter view's inner views), no forms and no `<base>`.
+- The deck only sends **hints** to the frame page: “edit the element with this `data-src` range and hash”, “a note at this element”, the keys `e` / `n` / `c` / Esc, and its position. A hint carries no text to write. The frame page checks the shape of each hint, reads the current source itself, checks the range and the hash, and shows its own card or drawer; it writes only when you press Save (or ⌘/Ctrl+Enter) in that card or drawer. Hints with forged text are ignored; a hint can at most open a card showing the real source.
+- The token exists only in the frame page, never in the deck document.
+
+So that a browser that has another site open cannot rewrite your source, the following are refused as well.
 
 - Requests whose Host is not `127.0.0.1:port` or `localhost:port` (against DNS rebinding) get 403
-- The `/__dev/` endpoints (writing, reading the source, comments, `/__dev/events`) need a token created at every start.
-  It is embedded in the served page as `window.__DECK_DEV_TOKEN`, and client.js sends it as `X-Deck-Token` (for `/__dev/events`, `?token=`).
+- The `/__dev/` endpoints (writing, reading the source, comments, `/__dev/info`, `/__dev/events`) need a token created at every start.
+  It is embedded only in the frame page (`/`), and the frame page sends it as `X-Deck-Token` (for `/__dev/events`, `?token=`).
   A wrong token gets 403 (after restarting the server, reload the page)
+- Requests with `Origin: null` (what the sandboxed deck would send) or with `Sec-Fetch-Site` other than `same-origin` get 403, even with the right token
 - Writes (POST) get 415 unless `Content-Type: application/json`, and 403 if an Origin is present and is not 127.0.0.1 or localhost on the same port
+- A text edit must name an element that the current build marked as editable (`data-src`) and whose source still has the same hash; a narration edit must name a slide of the deck and the current revision of that step. Otherwise 409 (or 400)
+- The frame page cannot be put in a frame by another page (`frame-ancestors 'none'`)
 - `/deck/…` does not serve names starting with a dot (the copies in `.cache/edits/`, `.env`, and so on). Symlinks pointing outside the deck folder also get 403
 - Malformed URLs (such as `/%ZZ`) get 400
 
-These protect against other sites, not against the deck itself: the token is visible to every script in the served page, so code in the deck (an inline script or a component) can send the same edit requests as the editing UI and rewrite `deck.html`, `narration.md` and `comments.json`. Serve only decks you trust. v0.3 moves the editing UI out of the deck page.
+`tools/test-dev-server.mjs` checks this with a deck that tries to write (`tools/hostile-deck.mjs`: a component and an inline script that send the old write messages with forged text, read the token, reach for the frame page, and `fetch` / XHR / beacon the write endpoints with and without a guessed token): nothing in the folder changes until Save is pressed in the frame page.
 
 ## Asking Claude Code
 

diff --git a/SECURITY.md b/SECURITY.md
@@ -7,8 +7,9 @@ Treat a deck folder like a source-code repository, not like a document. Build, c
 - **Scripts run.** Inline `<script>` in `deck.html`, components (`components/<name>/index.js`, deck-local ones first) and component attribute expressions run in the browser that opens the built HTML, and in the headless Chrome used by `kit/check.mjs`, `tools/pdf.mjs`, `render/` and the tests (Playwright).
 - **Build reads local files, inside the deck folder only.** `/*INCLUDE:…*/`, `{{JSON:…}}`, `{{FIG:…}}`, `narration.md`, `timeline.json`, `macros.tex`, `audio/manifest.json` and referenced assets (`<img src>`, `<link rel="stylesheet">`, CSS `url()`, …) are resolved relative to the deck folder (`INCLUDE` also searches `kit/`). Paths that leave the folder, through `../`, an absolute path or a symbolic link, are refused with a warning and nothing is read. A deck's `<html data-theme>` may only name a theme in the deck folder or in `themes/` (a `--theme` given on the command line is trusted).
 - **Build output is self-contained.** Local assets are embedded as data URIs. `http(s)` references are left as they are, and the build warns that the deck is then not fully offline.
-- **The dev server is local-only.** `server/dev.mjs` listens on `127.0.0.1` only, accepts only `Host: 127.0.0.1:<port>` or `localhost:<port>` (against DNS rebinding), and writes (text edits, narration, comments) need JSON, a same-origin request and a per-run token. It writes only inside the deck folder (`deck.html`, `narration.md`, `comments.json`, `.cache/`). Do not expose it to a network or put it behind a proxy.
-- **Deck code can edit its own source while you edit it.** In the dev server and in the editor app, the editing UI runs inside the deck page, so code in the deck (an inline script or a component) can send the same edit requests as the UI: it can rewrite `deck.html`, `narration.md` and `comments.json` of the deck you opened (nothing outside that folder; the previous version is kept in `.cache/edits/`). Open for editing only decks, and copy into your deck only components, that you trust. Version 0.3 moves the editing UI out of the deck page so that the deck can no longer authorize writes.
+- **The dev server is local-only.** `server/dev.mjs` listens on `127.0.0.1` only, accepts only `Host: 127.0.0.1:<port>` or `localhost:<port>` (against DNS rebinding), and writes (text edits, narration, comments) need JSON, a same-origin request (requests with `Origin: null` or a cross-site `Sec-Fetch-Site` are refused) and a per-run token. It writes only inside the deck folder (`deck.html`, `narration.md`, `comments.json`, `.cache/`). Do not expose it to a network or put it behind a proxy.
+- **While you edit, the deck cannot write.** In the dev server and in the editor app the deck (its inline scripts and components) runs in a sandboxed iframe with an opaque origin (`sandbox="allow-scripts allow-modals"`, no `allow-same-origin`) and a Content-Security-Policy with `connect-src 'none'` and every other resource limited to `data:` / `blob:` (the dev server also allows its own `/deck/audio/` and `/deck/` for audio and the presenter view's inner views). The editing UI (`server/editor-ui.js`) runs outside the deck: in the dev server's frame page, which alone holds the per-run token, and in the editor app's own page, which alone holds the folder handles. The deck can only send hints (`server/hints.js`: which element or step to open, a note position, the keys `e` / `n` / `c` / Esc, its position); a hint carries no text to write. The editing UI reads the source itself, checks the range and hash against the current build, shows the text in its own card, and writes only when you press Save (or ⌘/Ctrl+Enter) there. The rights prompt and read-only modes of the editor app apply to those writes. `tools/hostile-deck.mjs` is a deck that tries to write in every way we know of; the dev-server and editor-app tests check that it changes nothing.
+- **A deck's own code still runs in the preview.** It cannot write or reach the network, but it can show anything inside the preview (for example a fake editing card; such a card cannot save). Before the editor app runs a deck's own code (a portable file with the “extended” profile, or a folder with components or scripts), it says so and starts the preview only after you confirm.
 - **TTS and video** (tier 2) send narration text to the TTS server in `IRODORI_URL` (default `http://localhost:8882`). Point it only at a server you run or trust.
 
 `comments.json`, `.cache/`, `.env*` and `*.local.json` are gitignored so that review notes, edit history and local settings are not published by accident.

diff --git a/README.ja.md b/README.ja.md
@@ -109,7 +109,7 @@ npm run check -- talks/mytalk/deck.html    # 最後の行が「エラー 0」に
 node server/dev.mjs path/to/deck.html            # http://127.0.0.1:8730/ を開く（Ctrl+C で止める）
 ```
 
-画面はいつもの発表画面（矢印・`p`・`a` などはそのまま使える）。デッキのファイルが変わると自動で読み込み直し、スライドと段階はそのまま残る。
+画面はいつもの発表画面（矢印・`p`・`a` などはそのまま使える）で、編集の道具はその外側に出る。デッキは sandbox の枠の中で動き、「どこを直したいか」を知らせることしかできず、編集の道具で「保存」を押すまで何も書き込まれない。デッキのファイルが変わると自動で読み込み直し、スライドと段階はそのまま残る。
 
 1. **文字を直す：`e` → ダブルクリック。** 直せる要素に点線の枠が出る。ダブルクリックでその部分の原稿（HTML と `\( … \)` の式）が開くので、直して ⌘/Ctrl+Enter。`deck.html` のその要素だけが書き換わる
 2. **口述原稿を直す：`n`。** 右に今の段階の口述原稿が出る。直して保存（発言の追加・削除・話者の変更もできる）。`narration.md` のその段階だけが書き換わる

diff --git a/docs/reference.ja.md b/docs/reference.ja.md
@@ -265,7 +265,7 @@ build は、どのスライドにも合わない `##`（検査器ではエラー
 | Alt+クリック（Mac は ⌥ option+クリック） | Claude Code への指示を残す |
 | 衝突 | 開いた後に原稿が変わっていれば保存しない |
 | 書き換えるファイル | `deck.html`（直した要素だけ）、`narration.md`（その段階だけ）、`comments.json`、`.cache/edits/`（新しい 30 個） |
-| 口 | `GET /`、`/deck/<ファイル>`、`/__dev/client.js`、`/__dev/events`（SSE）、`GET /__dev/source?range=a-b`、`POST /__dev/edit`、`GET`/`POST /__dev/narration`、`GET /__dev/comments`、`POST /__dev/comment`、`POST /__dev/comment/resolve` |
+| 口 | `GET /`（外枠。`?presenter=1` は発表者ビューの窓）、`GET /deck/`（デッキの文書。sandbox の中で開く）、`/deck/<ファイル>`、`/__dev/shell.js`、`/__dev/editor-ui.js`、`/__dev/presenter.js`、`/__dev/events`（SSE）、`GET /__dev/info`、`GET /__dev/source?range=a-b`、`POST /__dev/edit`、`GET`/`POST /__dev/narration`、`GET /__dev/comments`、`POST /__dev/comment`、`POST /__dev/comment/resolve` |
 
 ## 検査器
 

diff --git a/README.md b/README.md
@@ -109,7 +109,7 @@ You rarely need to open `deck.html` by hand. Start the dev server and fix things
 node server/dev.mjs path/to/deck.html            # then open http://127.0.0.1:8730/  (Ctrl+C to stop)
 ```
 
-The page is the normal deck (arrow keys, `p`, `a`, … all work). It reloads by itself whenever a file of the deck changes, and stays on the same slide and step.
+The page shows the deck (arrow keys, `p`, `a`, … all work), with the editing tools around it: the deck runs in a sandboxed frame and can only point at what to edit, and nothing is written until you press Save in the editing tools. It reloads by itself whenever a file of the deck changes, and stays on the same slide and step.
 
 1. **Fix text: `e`, then double-click.** Editable elements get a dotted outline. Double-click one to open its source (HTML, with math as `\( … \)`), edit, and press ⌘/Ctrl+Enter. Only that element is replaced in `deck.html`.
 2. **Fix the narration: `n`.** A drawer shows the narration of the current step. Edit the text (add or remove turns, change the speaker) and save. Only that step is replaced in `narration.md`.

diff --git a/docs/reference.md b/docs/reference.md
@@ -265,7 +265,7 @@ Printing (`tools/pdf.mjs`, or the browser) shows each slide in its final state, 
 | Alt+click (on a Mac: ⌥ Option+click) | leave a comment for Claude Code |
 | conflicts | a save is refused if the source changed since it was opened |
 | files written | `deck.html` (only the edited element), `narration.md` (only that step), `comments.json`, `.cache/edits/` (last 30 copies) |
-| endpoints | `GET /`, `/deck/<file>`, `/__dev/client.js`, `/__dev/events` (SSE), `GET /__dev/source?range=a-b`, `POST /__dev/edit`, `GET`/`POST /__dev/narration`, `GET /__dev/comments`, `POST /__dev/comment`, `POST /__dev/comment/resolve` |
+| endpoints | `GET /` (frame page; `?presenter=1`: presenter window), `GET /deck/` (the deck document, sandboxed), `/deck/<file>`, `/__dev/shell.js`, `/__dev/editor-ui.js`, `/__dev/presenter.js`, `/__dev/events` (SSE), `GET /__dev/info`, `GET /__dev/source?range=a-b`, `POST /__dev/edit`, `GET`/`POST /__dev/narration`, `GET /__dev/comments`, `POST /__dev/comment`, `POST /__dev/comment/resolve` |
 
 ## Checker
 
